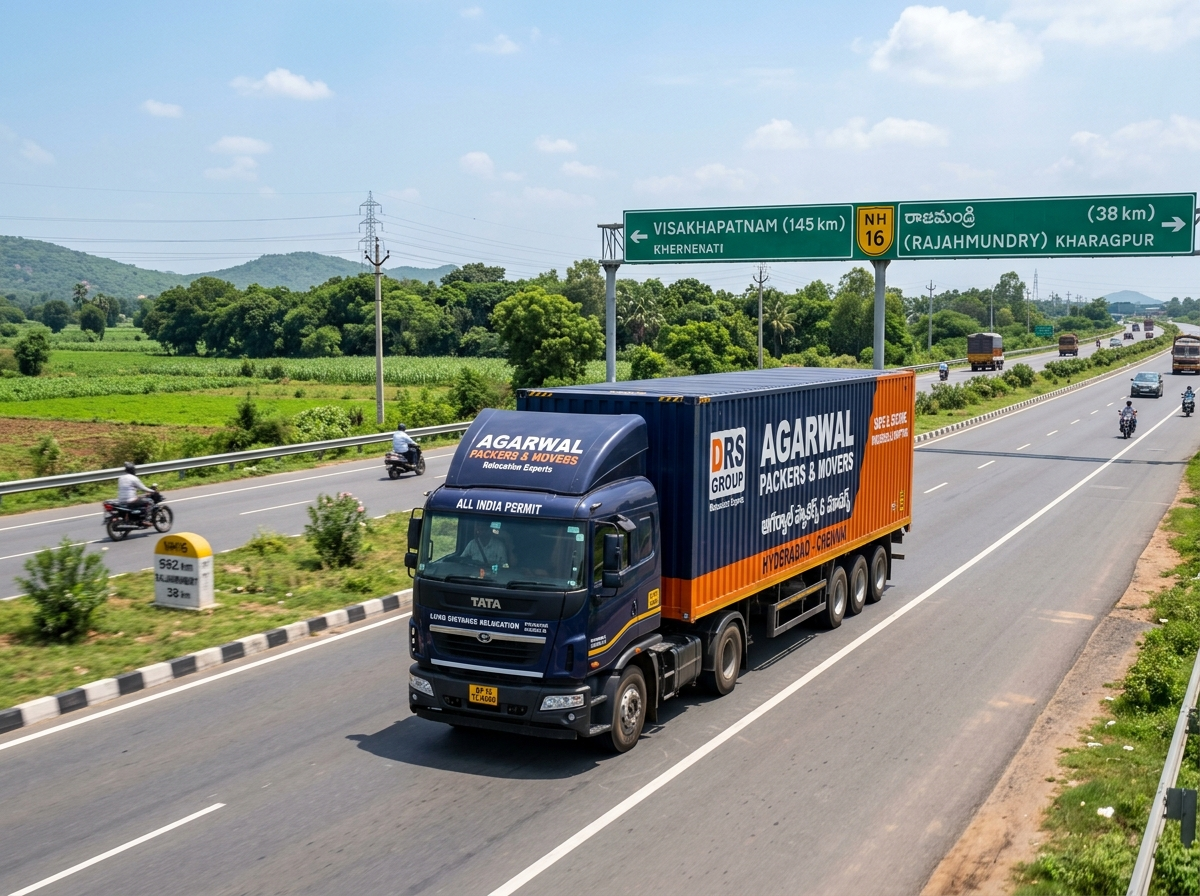
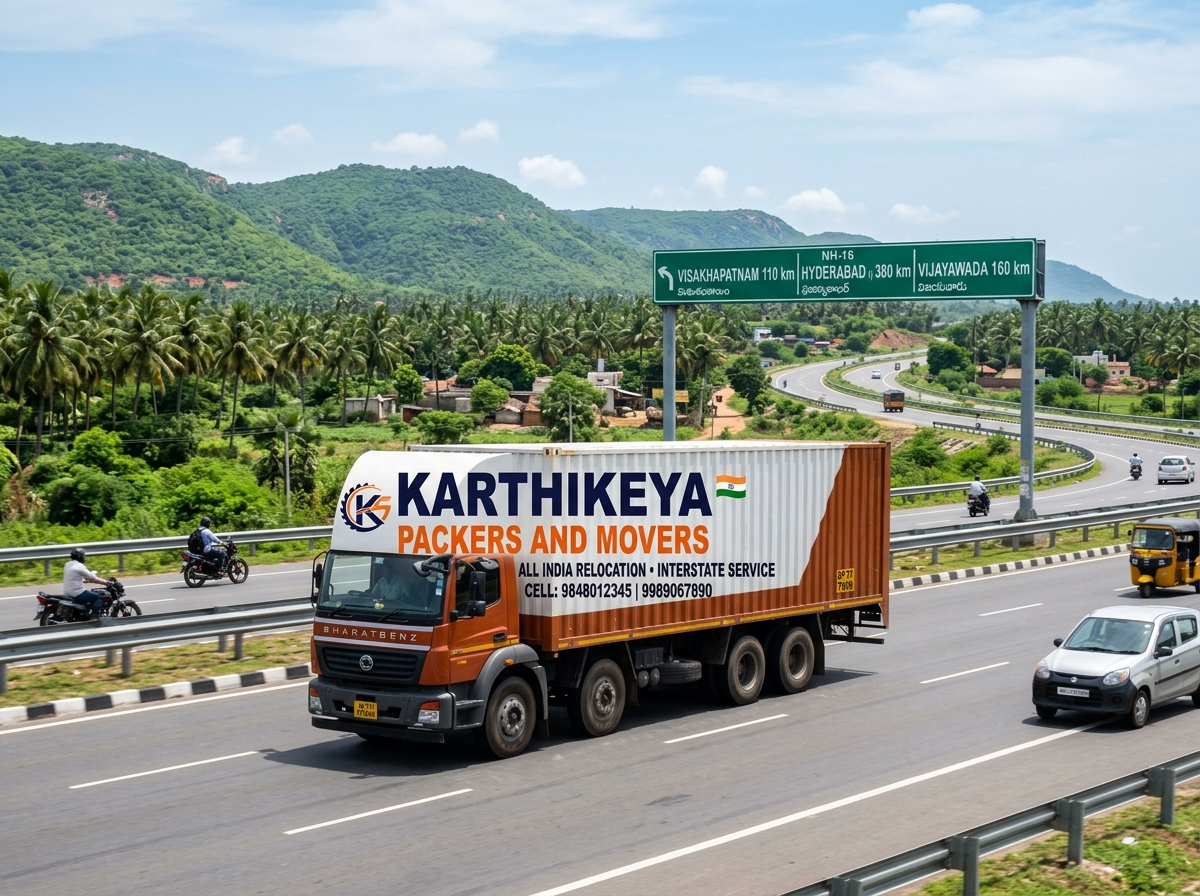
feat(services): replace local and domestic shift images with Karthikeya branded visuals

diff --git a/PROJECT_MEMORY/CHANGELOG.md b/PROJECT_MEMORY/CHANGELOG.md
@@ -80,3 +80,9 @@
 - **About Background (`public/about-bg.png`)**: Panoramic authentic Vizianagaram branch office featuring dual Telugu & English signage ("కార్తికేయ ప్యాకర్స్ & మూవర్స్ - విజయనగరం / KARTHIKEYA PACKERS AND MOVERS - VIZIANAGARAM"), an AP-registered Eicher moving container carrier, branch supervisor with clipboard, uniformed crew, and labeled cartons ("KARTHIKEYA FRAGILE", "KARTHIKEYA KITCHEN").
 - **Contact Background (`public/contact-bg.png`)**: Authentic Indian customer relationship and dispatch desk in Vizianagaram, featuring wall signage with Andhra Pradesh route map, dispatch board, and representative assisting moving inquiries.
 - Verified clean build with `npm run build`.
+
+### 11. Branded Karthikeya Images for Local Shifting & Domestic Relocation Services
+- **User Feedback Addressed**: Replaced images for Local Shifting and Domestic Relocation that previously showed trucks with unbranded/generic third-party names.
+- **Local Shifting (`public/service/service-04.jpg`)**: High-resolution authentic photo in Vizianagaram outside "SRI SAI RESIDENCY". Features a moving container truck explicitly and prominently branded with **"KARTHIKEYA PACKERS AND MOVERS - VIZIANAGARAM"** and phone numbers, with uniformed loaders carrying a sofa protected with bubble wrap down the loading ramp.
+- **Domestic Relocation (`public/service/service-05.jpg`)**: Crisp, photorealistic shot along NH-16 highway with overhead directional signage ("VISAKHAPATNAM 110 km | HYDERABAD 380 km | VIJAYAWADA 160 km"). Features a modern multi-axle interstate carrier truck boldly branded with **"KARTHIKEYA PACKERS AND MOVERS - ALL INDIA RELOCATION • INTERSTATE SERVICE"**.
+- Validated with clean production build (`npm run build`).

diff --git a/PROJECT_MEMORY/PROJECT_STATE.md b/PROJECT_MEMORY/PROJECT_STATE.md
@@ -18,7 +18,7 @@
    - **Hero (`/hero-bg.png`)**: AP residential building "SHREE BALAJI TOWERS" with branded Karthikeya moving container carrier and loading crew.
    - **About (`/about-bg.png`)**: Vizianagaram branch office with bilingual Telugu/English signage, branded Eicher truck, supervisor and crew.
    - **Contact (`/contact-bg.png`)**: Vizianagaram customer service and dispatch desk with Andhra Pradesh route map and coordinator.
-   - **Services (6 cards)**: Household shifting, corporate relocation, kitchen crockery packing, local colony shifts, NH-16 highway container trucks, and bike transport.
+   - **Services (6 cards)**: Household shifting, corporate relocation, kitchen crockery packing, local Vizianagaram shifting with branded Karthikeya truck at Sri Sai Residency (`service-04.jpg`), NH-16 highway multi-axle interstate carrier branded with Karthikeya Packers & Movers (`service-05.jpg`), and bike/car transport.
 4. **Real Client Operational Video Proof**: Prominent video showcase featuring 4 genuine on-site relocation videos with an interactive lightbox player (`<video controls autoPlay>`).
 5. **Asymmetric Bento Advantages Grid**: Modern Bento layout with high-trust metrics and zero-damage guarantees.
 6. **Vehicle Fleet Section Removed**: Streamlined out per client instruction, replaced by Safe Transit Guarantees and Direct Doorstep Transit protocol.
